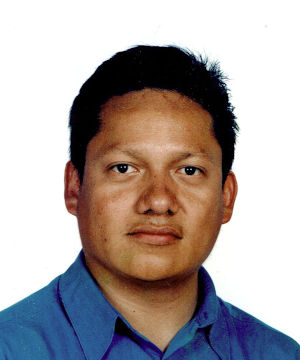
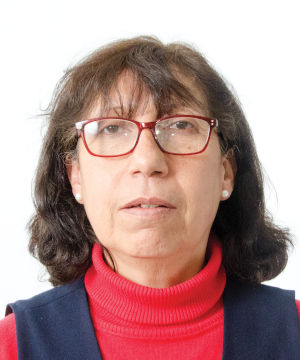
actualizando pag nosotros

diff --git a/views/nosotros.view.php b/views/nosotros.view.php
@@ -30,23 +30,26 @@
   <section class="sec-mi-vi text-center">
     <div class="container">
       <div class="row">
-        <div class="col-12 col-md-6 sec-mision py-4">
+        <div class="col-12 col-md-6 sec-mision p-4">
           <div class="sec-mi-vi-header pb-3">
             <h3>Misión</h3>
             <hr>
           </div>
-          <p>Lorem ipsum dolor sit amet consectetur, adipisicing elit. Voluptate
-            praesentium non libero recusandae sed id expedita, ut asperiores aliquid?
-            Nesciunt voluptas error quaerat ea veniam nisi modi, dolorum facilis nostrum?</p>
+          <p class="text-justify">
+            Somos un colegio que forma personas comprometidas con la comunidad desde preescolar hasta primaria, 
+            buscando la formación integral de los niños con valores como el respeto, la puntualidad, hábitos de
+            estudio y el amor a la patria, así se generara una sociedad más justa, preparada y exitosa para el futuro.
+          </p>
         </div>
-        <div class="col-12 col-md-6 py-4">
+        <div class="col-12 col-md-6 p-4">
           <div class="sec-mi-vi-header pb-3">
             <h3>Visión</h3>
             <hr>
           </div>
-          <p>Lorem ipsum dolor sit amet consectetur, adipisicing elit. Voluptate
-            praesentium non libero recusandae sed id expedita, ut asperiores aliquid?
-            Nesciunt voluptas error quaerat ea veniam nisi modi, dolorum facilis nostrum?</p>
+          <p class="text-justify">
+            En el colegio Jesús Romero trabajamos para continuar siendo la mejor opción educativa para las familias
+            de Santa Fe ofreciendo una formación con valores trascendentes en un ambiente sano con excelentes
+            instalaciones, tecnologías de vanguardia y los mejores maestros para ser un orgullo de nuestra comunidad.</p>
         </div>
       </div>
     </div>
@@ -60,9 +63,8 @@
       </div>
       <div class="text-nosotros">
         <p>
-          El Jardín de Niños Villa Infantil María Isabel se encuentra en un continuo
-          proceso de mejora, tanto en sus instalaciones como en sus planes de estudio
-          y mecánicas de trabajo, esto también incluye a padres de familia.
+          El colegio Jesús romero Flores se encuentra en un continuo proceso de mejora, tanto en sus instalaciones
+          como en sus planes de estudio y mecánicas de trabajo, esto incluye por supuesto a ustedes padres de familia.
         </p>
       </div>
     </div>
@@ -70,22 +72,22 @@
       <h3 class="text-center">Personal Administrativo</h3>
       <div class="row text-center pt-2">
         <div class="col-12 col-md-4 pb-4 pb-md-0">
-          <img src="<?php echo PATH; ?>img\imgp-direc-tec.jpg" alt="Fotografía de personal administrativo">
+          <img src="<?php echo PATH; ?>img\imgp-direc-grnl.jpg" alt="Fotografía de personal administrativo">
           <h5>Lic. María Isabel Rincón</h5>
           <hr>
           <p> Directora General</p>
         </div>
         <div class="col-12 col-md-4 pb-4 pb-md-0">
           <img src="<?php echo PATH; ?>img\imgp-direc-tec.jpg" alt="Fotografía de personal administrativo">
-          <h5>Dr. Eduardo Rincón Aguilar</h5>
+          <h5>Lic. Patricia Lerma</h5>
           <hr>
-          <p> Director Administrativo</p>
+          <p>Directora Técnica</p>
         </div>
         <div class="col-12 col-md-4">
-          <img src="<?php echo PATH; ?>img\imgp-direc.jpg" alt="Fotografía de personal administrativo">
-          <h5>Lic. Perla Susana Beltrán</h5>
+          <img src="<?php echo PATH; ?>img\imgp-coordinador.jpg" alt="Fotografía de personal administrativo">
+          <h5>Dr. Eduardo Rincón</h5>
           <hr>
-          <p> Directora Técnica</p>
+          <p>Coordinador General</p>
         </div>
       </div>
     </div>
